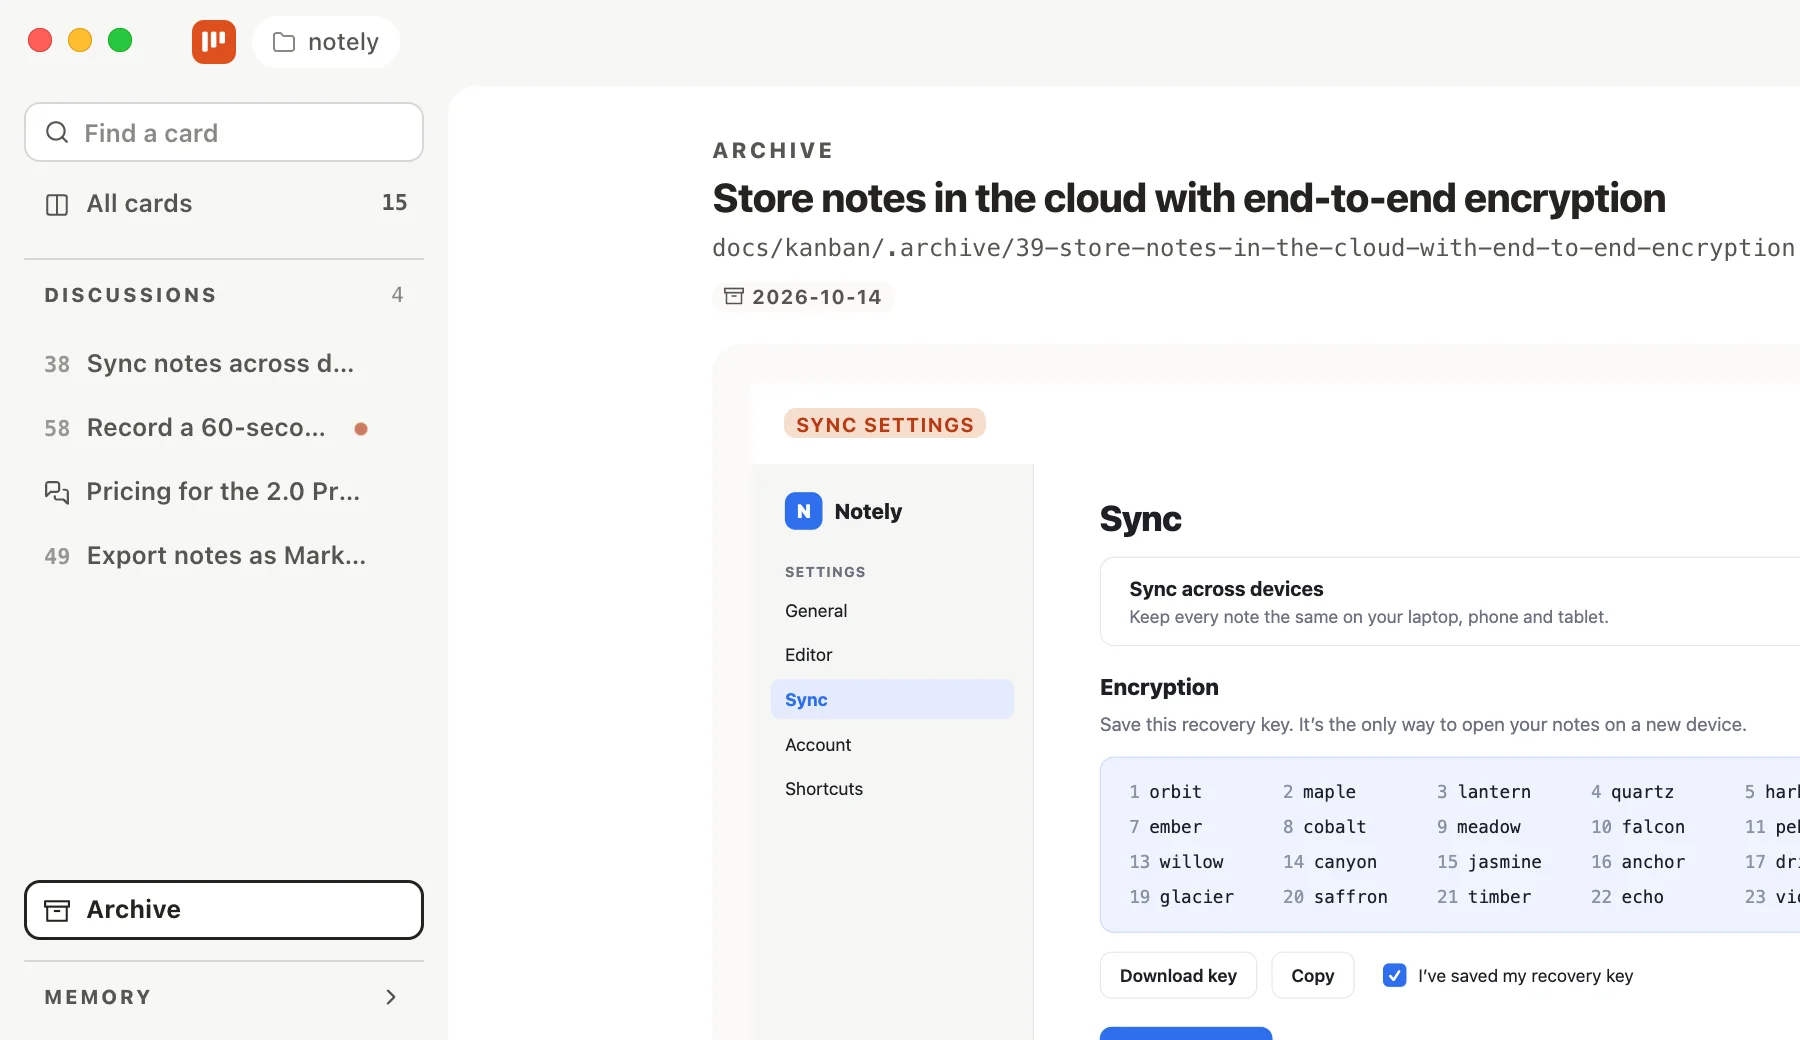
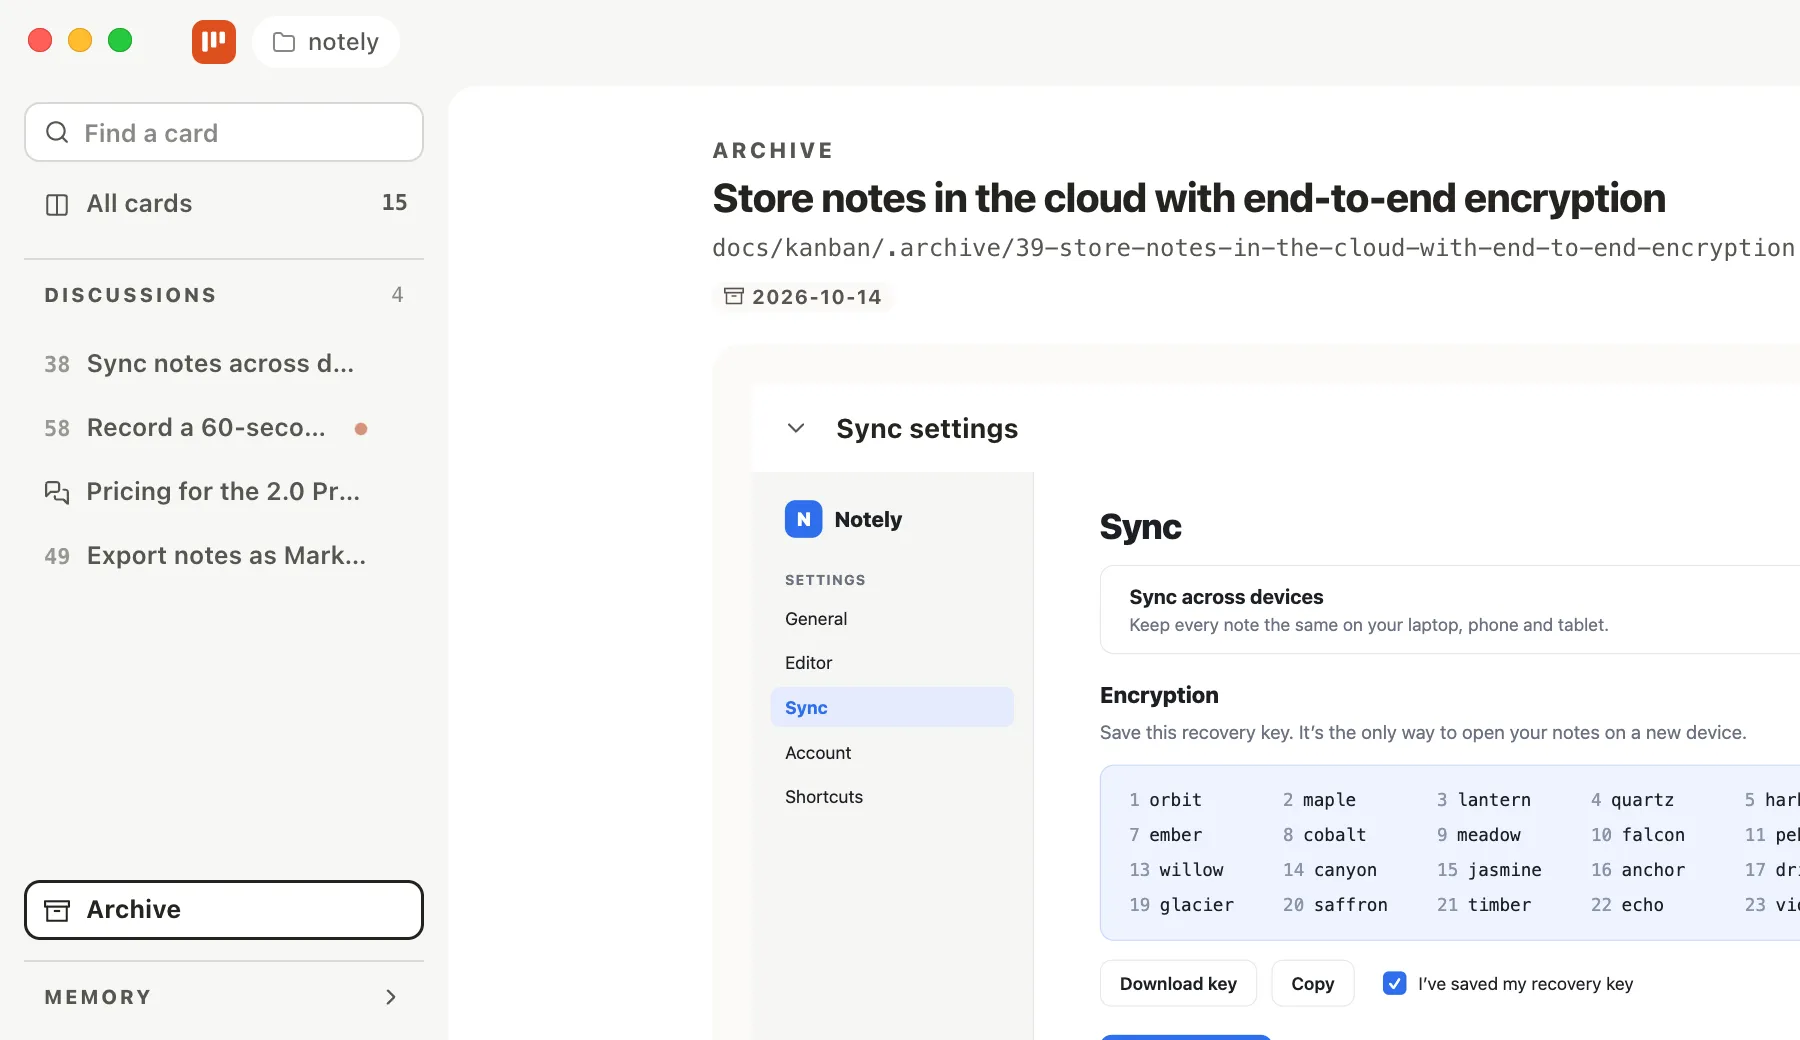
官网与文档的草稿截图换成改版后的组件外观 (#1797)
delivery gca6zqq2

diff --git a/web/components/workflows/Figures.tsx b/web/components/workflows/Figures.tsx
@@ -8,12 +8,12 @@ import { NearImage } from "./NearImage";
 // so a capture is named by its CDN key under `shots/`; the sizes reserve its box.
 
 const SIZES: Record<string, [number, number]> = {
-  "coding-draft-v1": [1664, 1248],
+  "coding-draft-v2": [1584, 1338],
   "coding-email-v1": [1582, 1186],
   "coding-preview-desktop-v1": [1584, 1084],
   "coding-preview-phone-v1": [1040, 1378],
   "coding-follow-ups-v1": [2560, 1440],
-  "coding-key-points-v1": [1200, 674],
+  "coding-key-points-v2": [1200, 674],
   "coding-questions-v1": [1200, 674],
   "coding-tools-v1": [1200, 674],
   "coding-questions-poster-v1": [1200, 675],

diff --git a/docs/qa/site/read-the-grill-me-page/case.md b/docs/qa/site/read-the-grill-me-page/case.md
@@ -32,7 +32,7 @@
    ![多个 Agent 怎么不重复](06-multi-agents.png) · [grill-me.log](grill-me.log)
 
 7. 读「What does the human actually read?」和它下面的截图。
-   表格把卡分成人读的一半（摘要、待审草稿、真正的开放问题、Worth noting）和折叠的 Agent 一半；正文说草稿审定后就是这部分必须照做的要求，其余细节由 Agent 在范围内决定，审完就让 Agent 交付，没有额外的人工交付审阅。截图正常加载（`shots/grill-draft-v2`），是子卡「#4 Invite members by email」：BLOCKED BY #3，UI designer 一栏有未勾选的「The user approved the page design.」和一张邀请成员页的设计稿。
+   表格把卡分成人读的一半（摘要、待审草稿、真正的开放问题、Worth noting）和折叠的 Agent 一半；正文说草稿审定后就是这部分必须照做的要求，其余细节由 Agent 在范围内决定，审完就让 Agent 交付，没有额外的人工交付审阅。截图正常加载（`shots/grill-draft-v3`），是子卡「#4 Invite members by email」：BLOCKED BY #3，UI designer 一栏有未勾选的「The user approved the page design.」和一张邀请成员页的设计稿。
    ![人读部分和待审草稿](07-draft.png) · [grill-me.log](grill-me.log)
 
 8. 在页末「Frequently asked questions」点开「Does AI4Kanban replace Grill Me?」。
